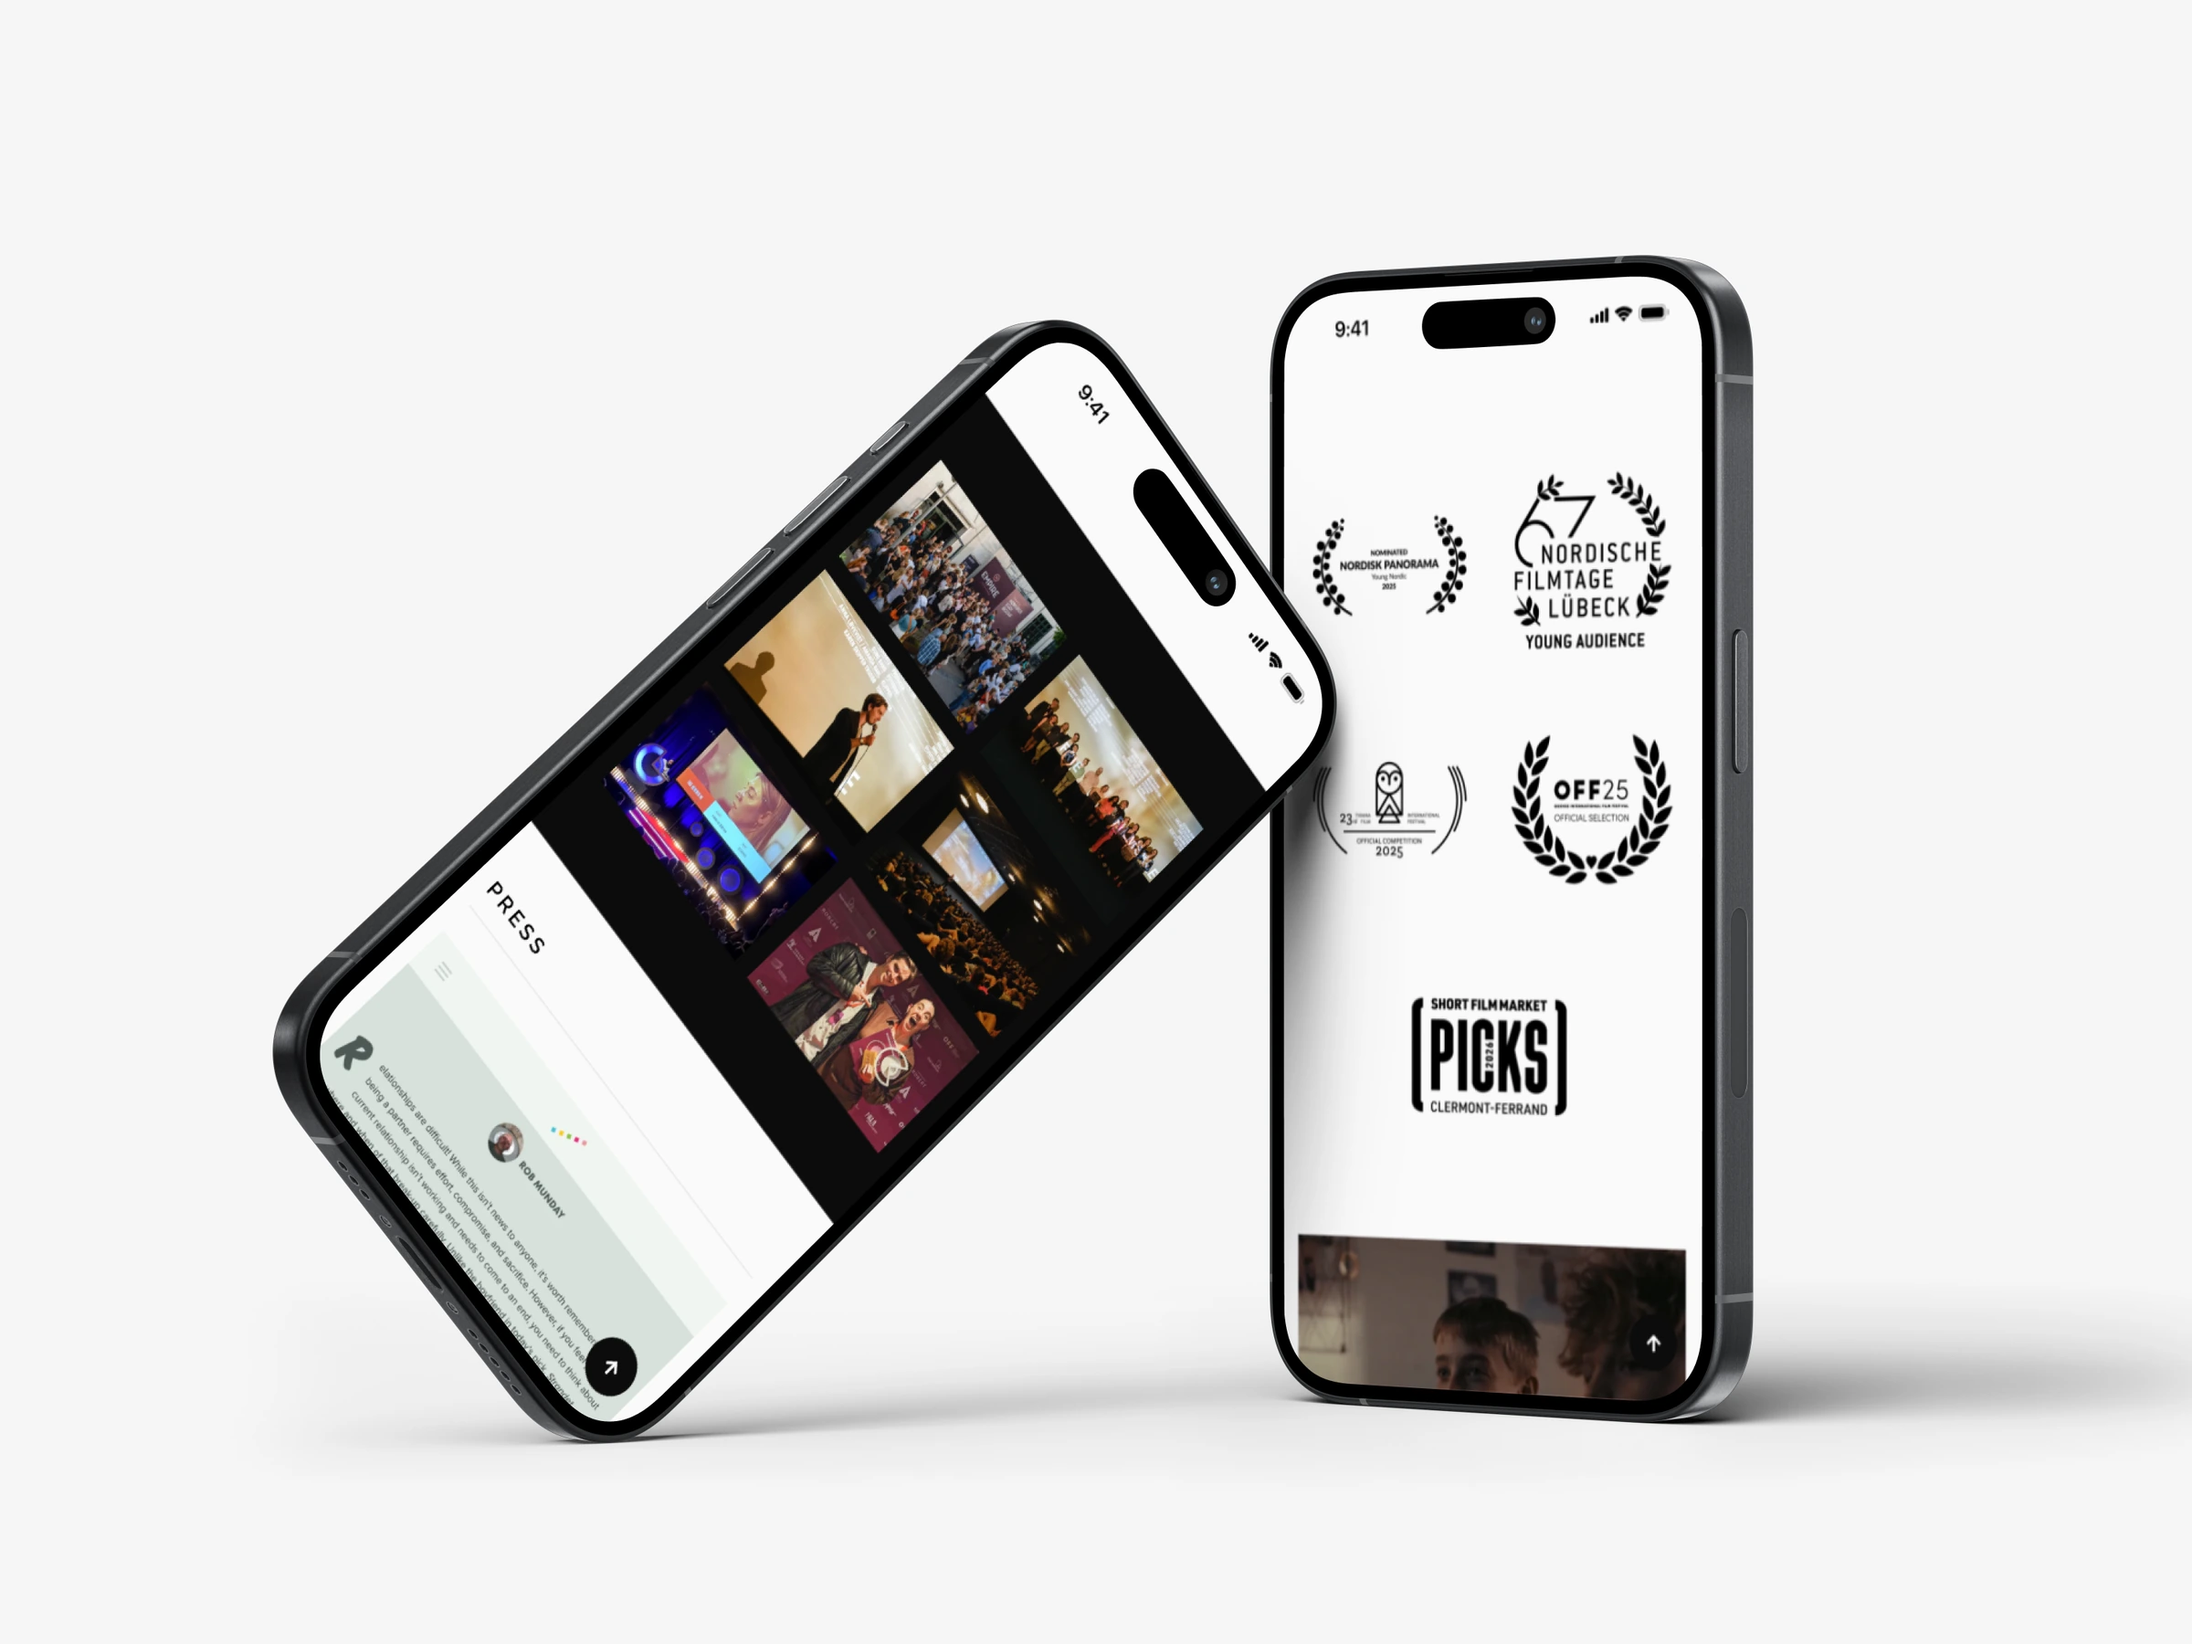
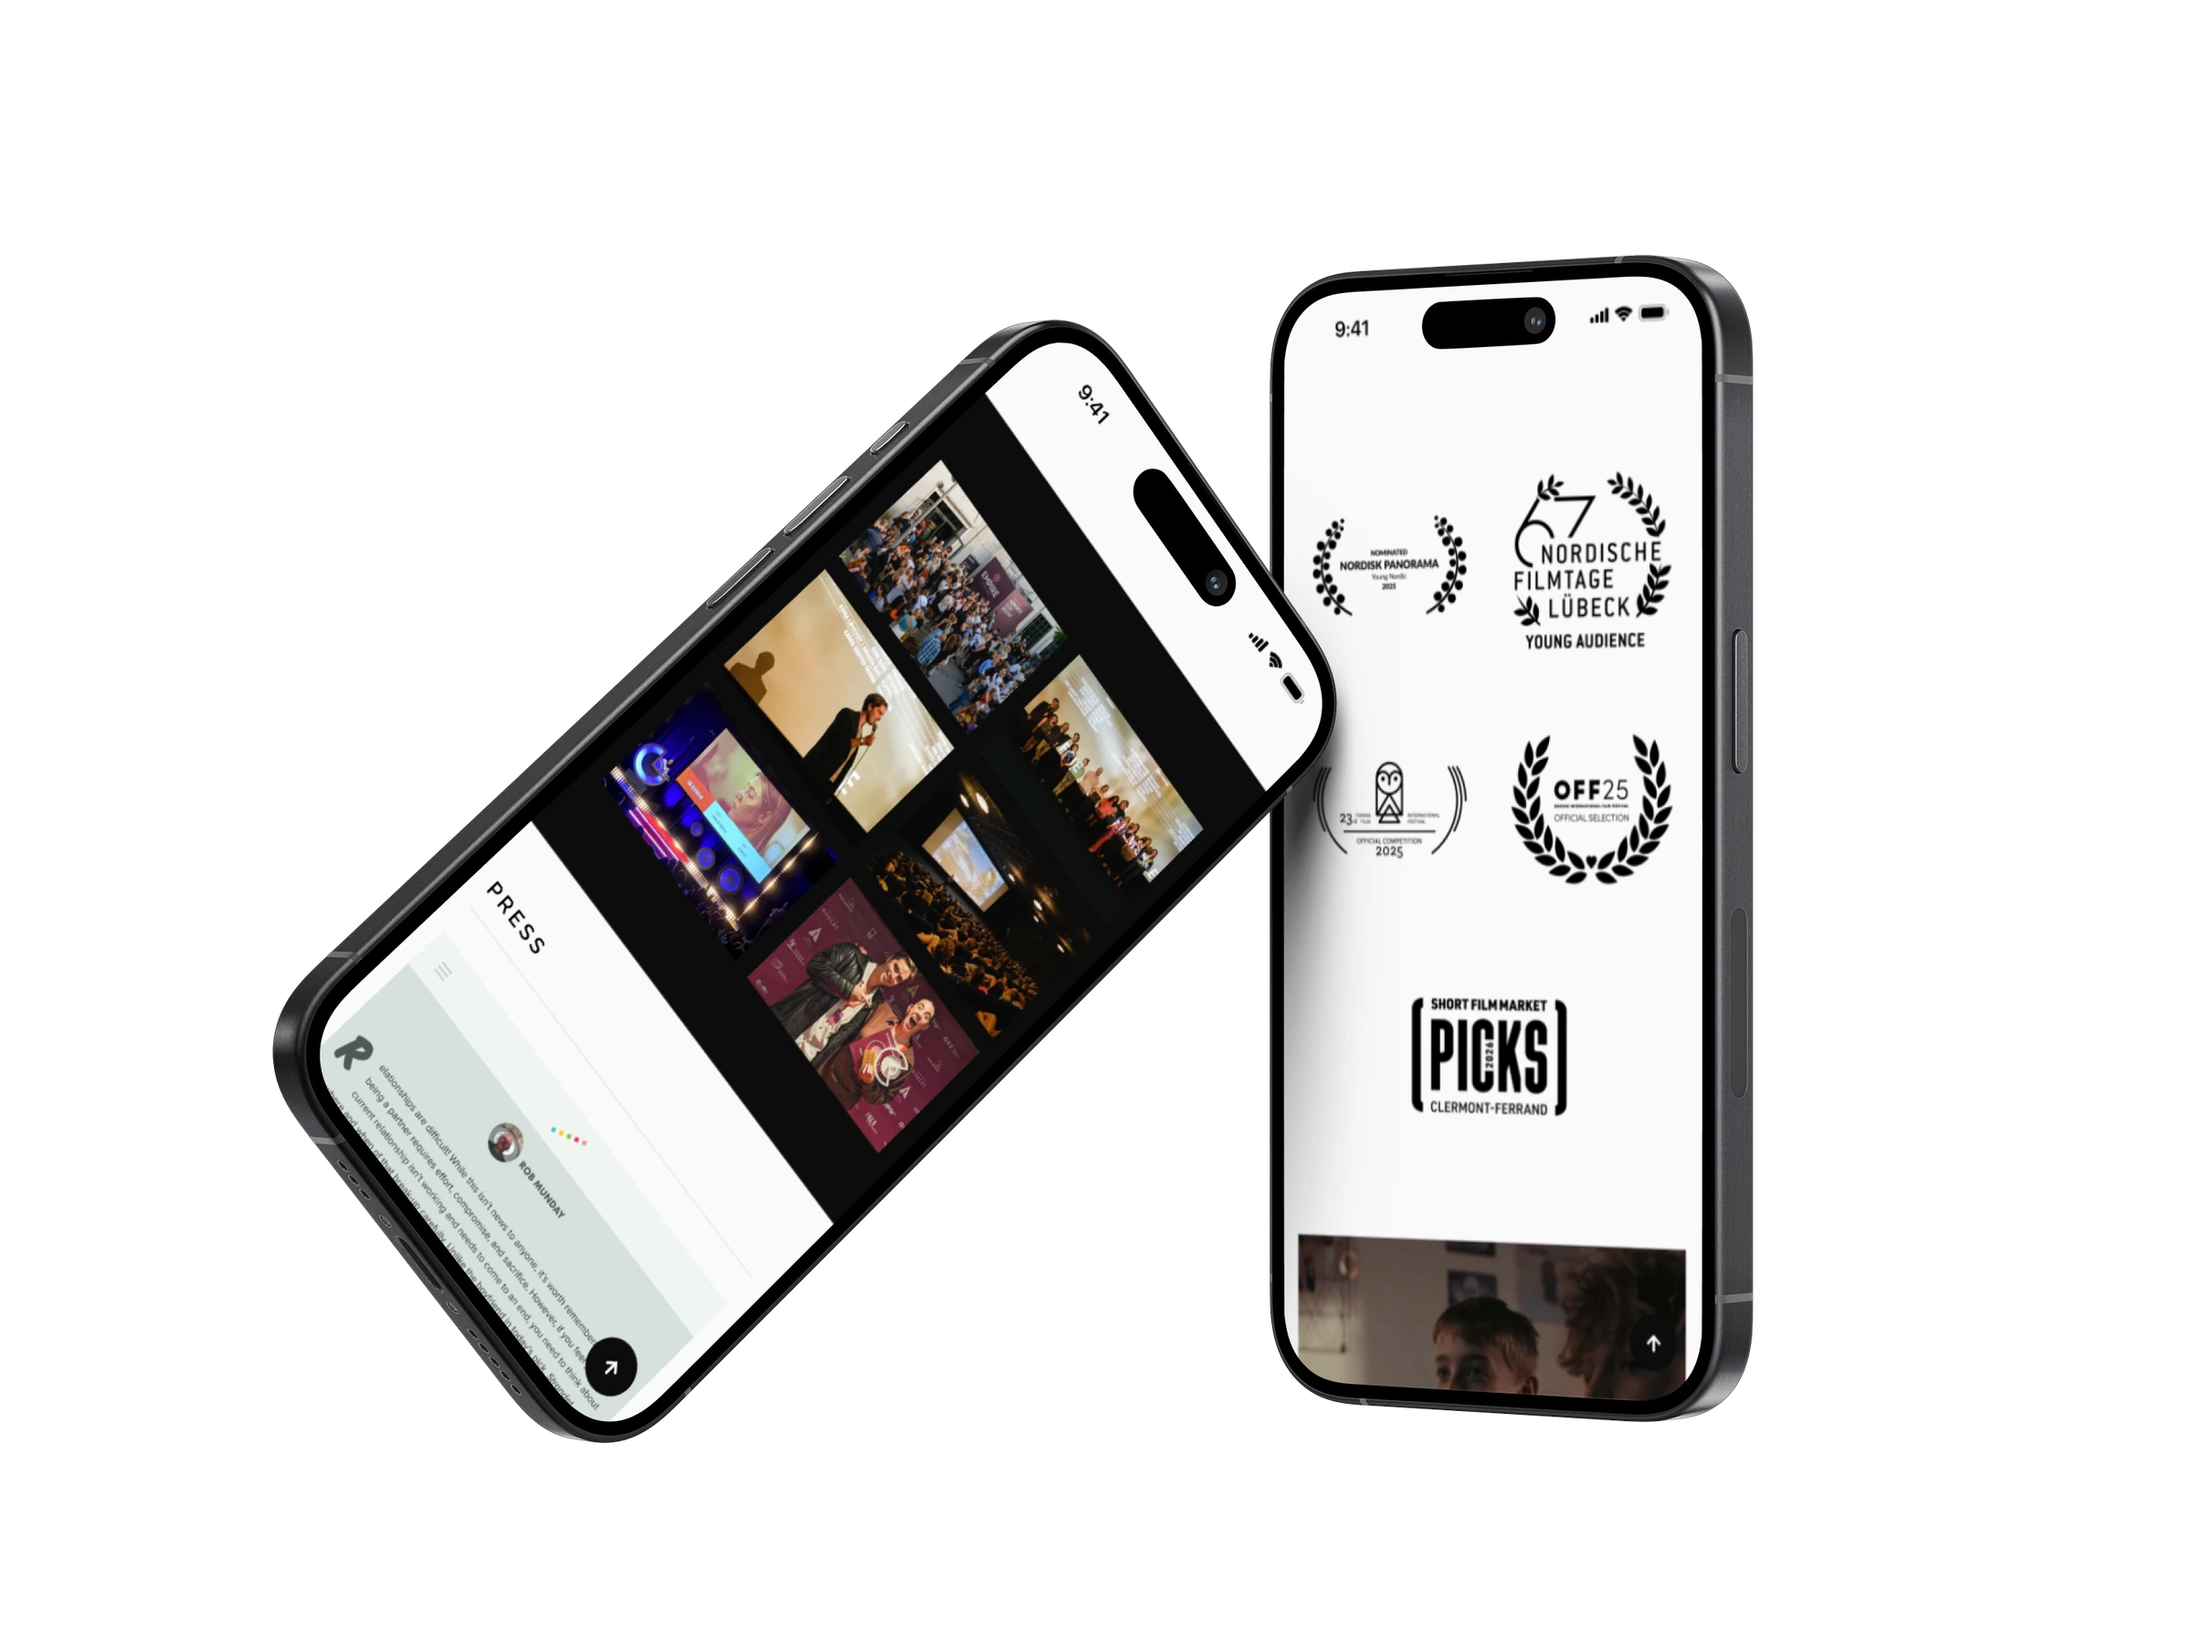
Peter Salling case: transparent version of the press and awards phone mockup

Changed region(s): [[0.1875, 0.8089, 0.6562, 0.9022], [0.75, 0.8089, 1.0, 0.8711]]

diff --git a/src/data/caseGallery.ts b/src/data/caseGallery.ts
@@ -63,7 +63,7 @@ const caseGalleryAssets: Record<string, CaseGalleryAssets> = {
   },
   'peter-salling': {
     introPair: [
-      { imageSrc: '/cases/peter-salling/mobiler-presse-priser--4-3.webp', imageAlt: 'Premierebilleder, anmeldelse og festivalpriser på to iPhones', aspectRatio: '4 / 3' },
+      { imageSrc: '/cases/peter-salling/mobiler-presse-priser--4-3.webp', imageAlt: 'Premierebilleder, anmeldelse og festivalpriser på to iPhones', aspectRatio: '4 / 3', transparent: true },
       { imageSrc: '/cases/peter-salling/mobiler-forside-strandet--4-3.webp', imageAlt: 'Forsiden og Strandet på to iPhones', aspectRatio: '4 / 3', transparent: true },
     ],
     horizontalTop: {
